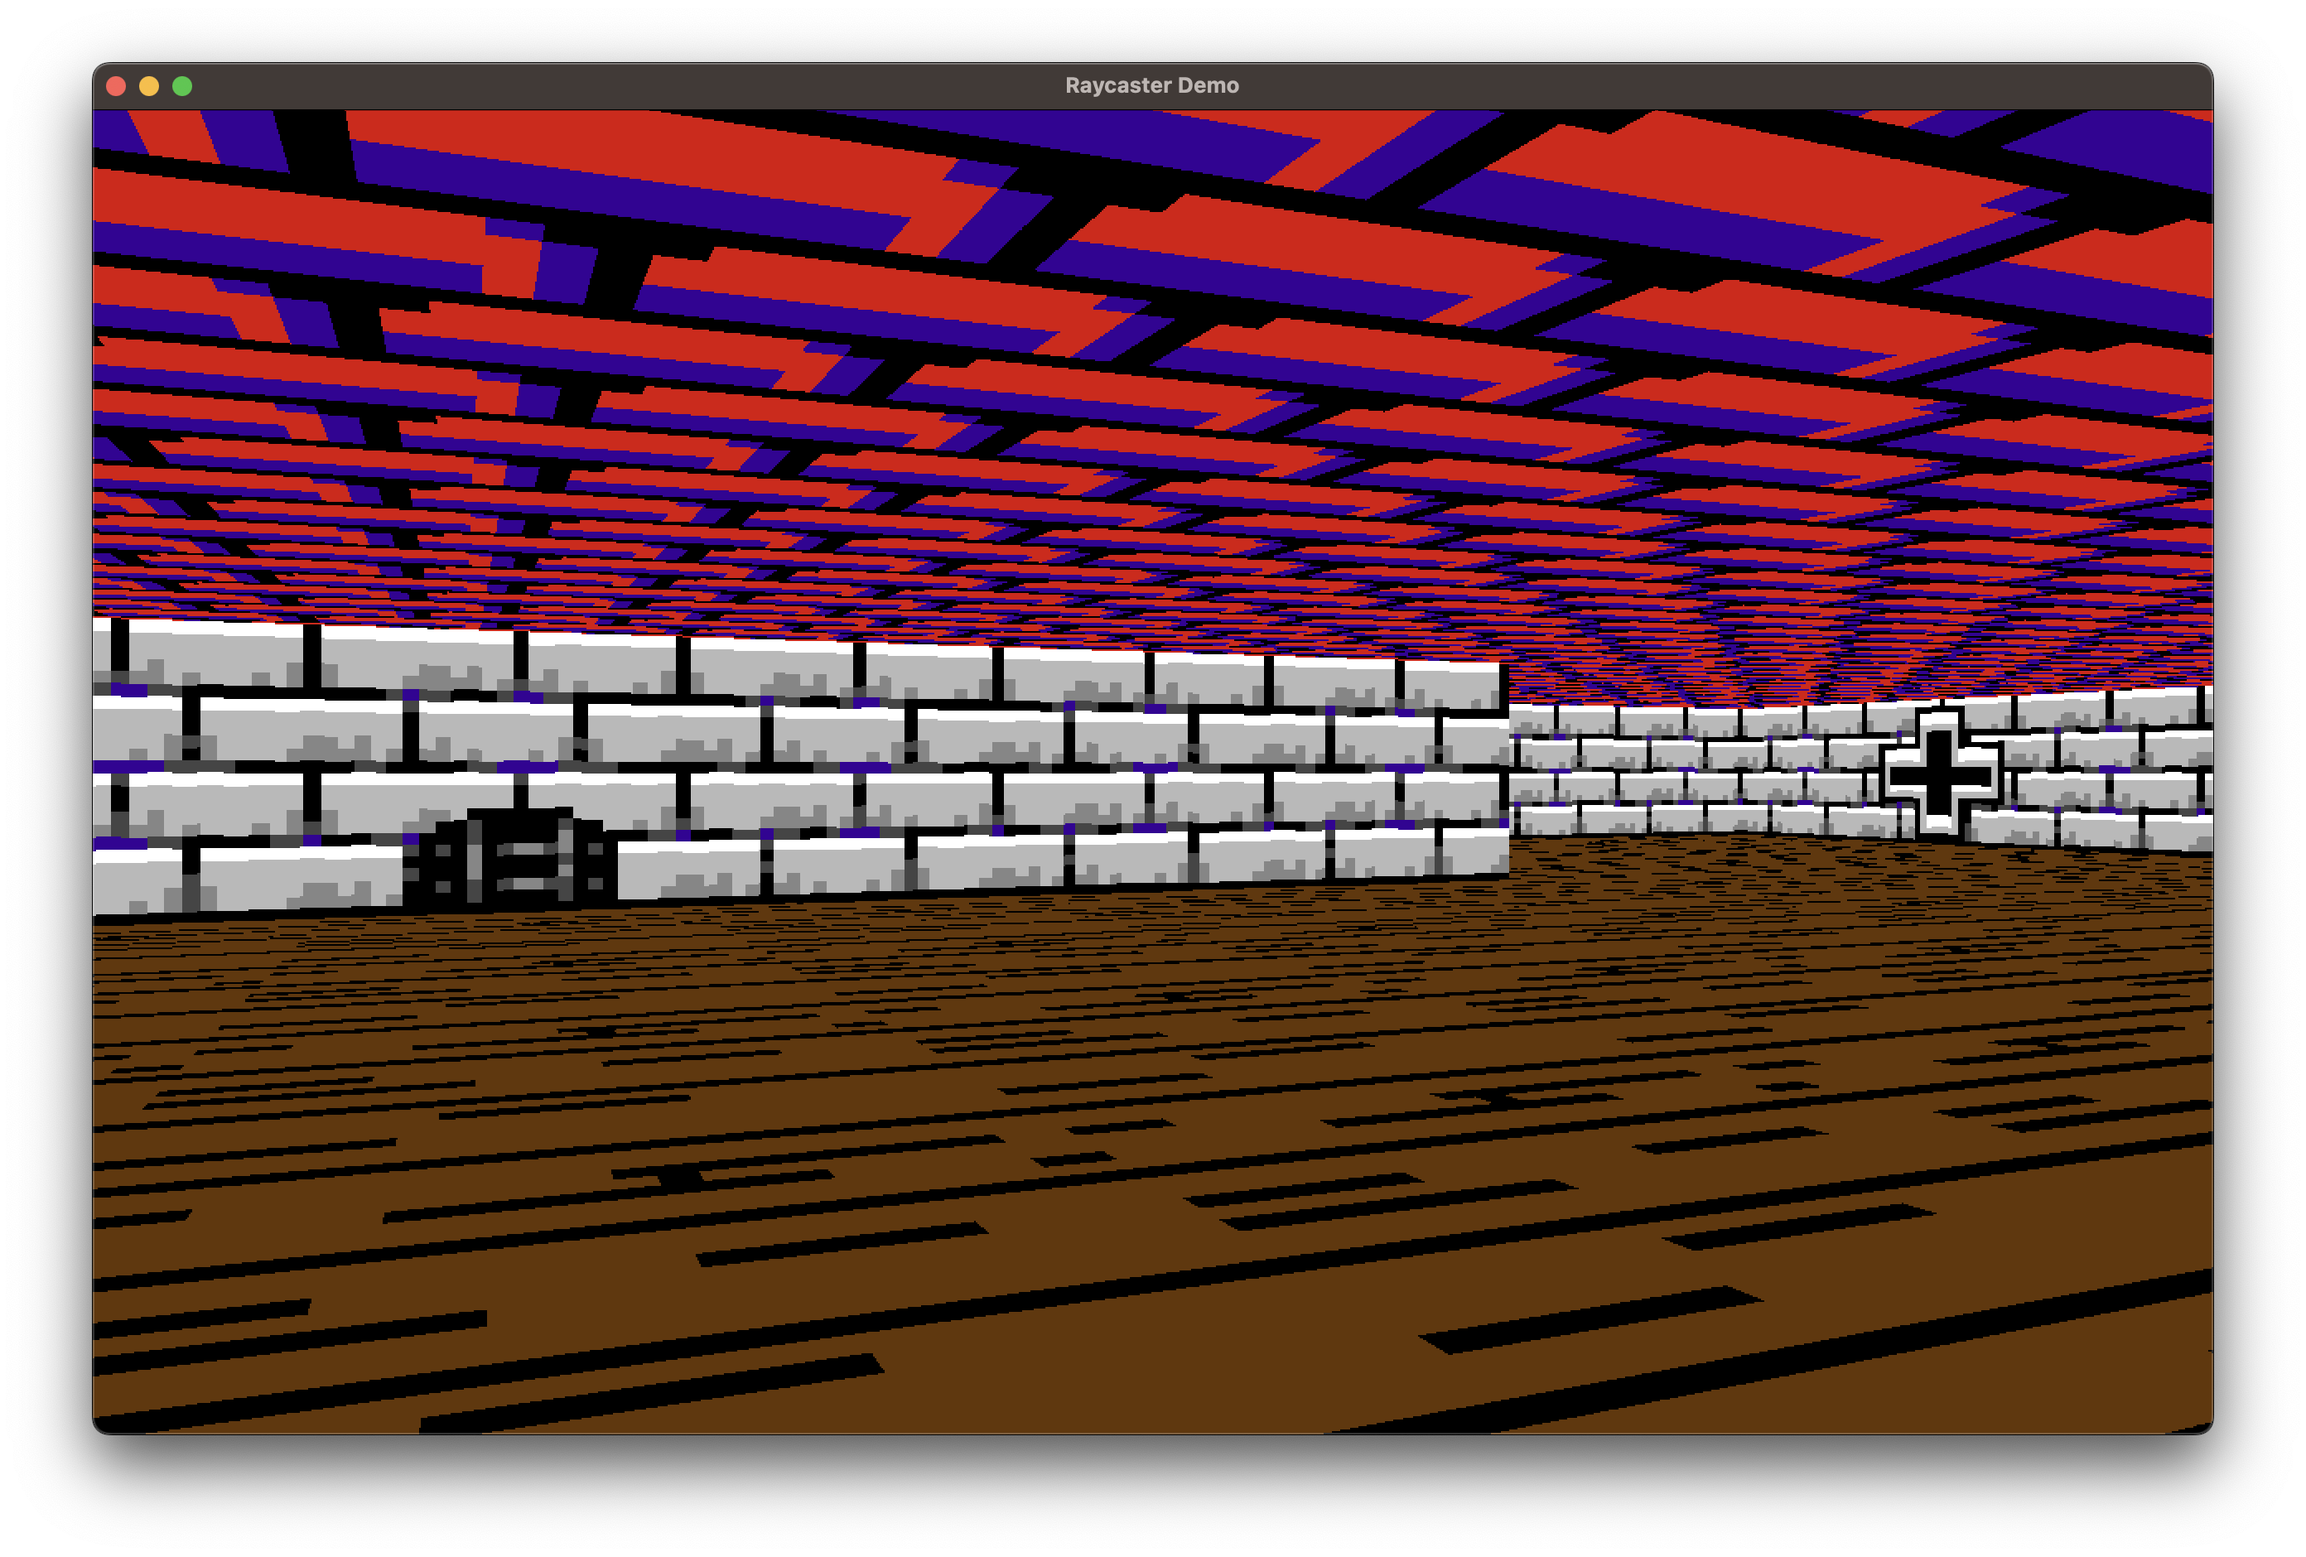
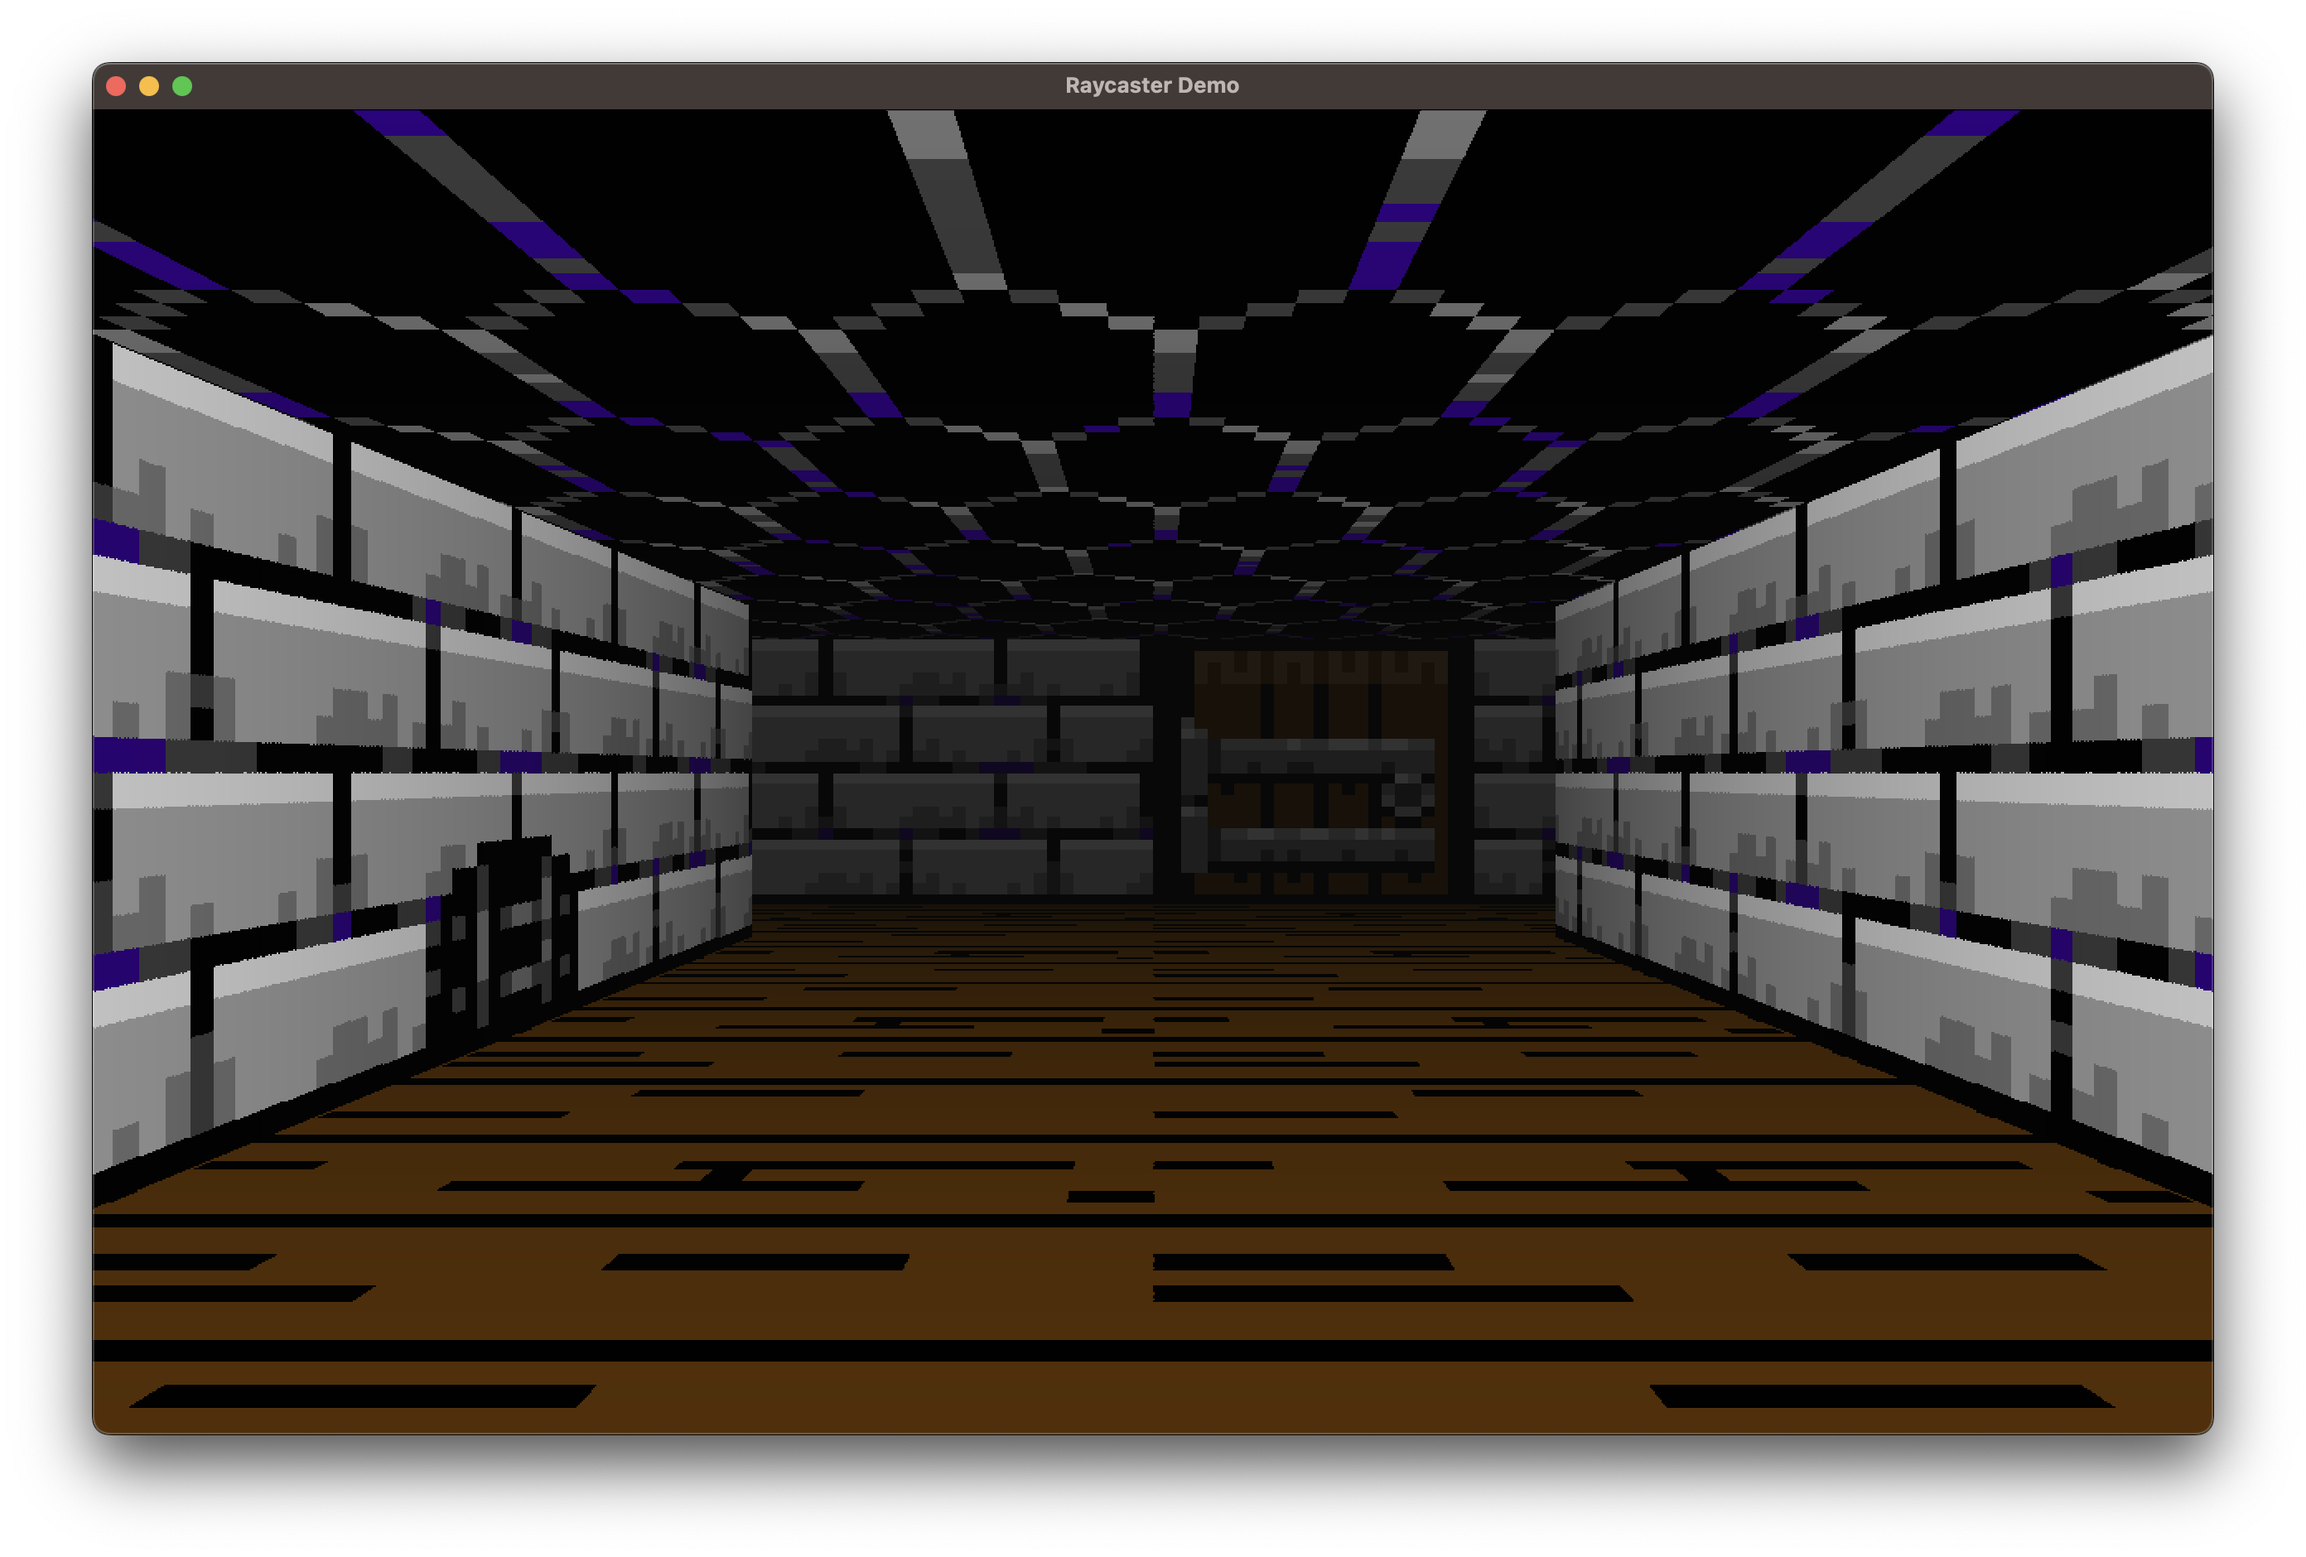
Adjustable fog color and distance

diff --git a/raycaster/src/raycaster.rs b/raycaster/src/raycaster.rs
@@ -5,6 +5,9 @@ pub struct Raycaster {
     time                    : u128,
     old_time                : u128,
 
+    fog_color               : [u8;4],
+    fog_distance            : f32,
+
     move_speed              : f32,
     rot_speed               : f32,
 
@@ -22,6 +25,9 @@ impl Raycaster {
             dir             : vec2::new(-1.0, 0.0),
             plane           : vec2::new(0.0, 0.66),
 
+            fog_color       : [0, 0, 0, 255],
+            fog_distance    : 6.0,
+
             time            : 0,
             old_time        : 0,
 
@@ -33,7 +39,7 @@ impl Raycaster {
     /// Renders the world map into the frame inside the given rectangle
     pub fn render(&mut self, frame: &mut [u8], rect: (usize, usize, usize, usize), stride: usize, world: &WorldMap) {
 
-        // let start = self.get_time();
+        let start = self.get_time();
 
         let width = rect.2 as i32;
         let height = rect.3 as i32;
@@ -119,6 +125,8 @@ impl Raycaster {
                 let mut floor_x = pos.x + row_distance * ray_dir_x0;
                 let mut floor_y = pos.y + row_distance * ray_dir_y0;
 
+                let mix_factor = row_distance / self.fog_distance;
+
                 for x in rect.0..rect.2 {
 
                     // the cell coord is simply got from the integer parts of floorX and floorY
@@ -133,7 +141,18 @@ impl Raycaster {
                             if let Some((tex_data, tex_width, _tex_height)) = world.get_image(image_id) {
                                 let tex_off = rect.0 + tex_x * 4 + rect.1 + ((tex_y as usize) * *tex_width as usize * 4);
                                 let off = x * 4 + y * 4 * stride;
-                                frame[off..off+4].copy_from_slice(&tex_data[tex_off..tex_off+4]);
+
+                                if mix_factor <= 0.0 {
+                                    frame[off..off+4].copy_from_slice(&tex_data[tex_off..tex_off+4]);
+                                } else
+                                if mix_factor >= 1.0 {
+                                    frame[off..off+4].copy_from_slice(&self.fog_color);
+                                } else {
+                                    let mut floor_color : [u8;4] = [0, 0, 0, 0];
+                                    floor_color.copy_from_slice(&tex_data[tex_off..tex_off+4]);
+                                    let color = self.mix_color(&floor_color, &self.fog_color, mix_factor);
+                                    frame[off..off+4].copy_from_slice(&color);
+                                }
                             }
                         }
                     }
@@ -146,7 +165,18 @@ impl Raycaster {
                             if let Some((tex_data, tex_width, _tex_height)) = world.get_image(image_id) {
                                 let tex_off = tex_rect.0 + tex_x * 4 + tex_rect.1 + ((tex_y as usize) * *tex_width as usize * 4);
                                 let off = x * 4 + (rect.3 - y - 1) * 4 * stride;
-                                frame[off..off+4].copy_from_slice(&tex_data[tex_off..tex_off+4]);
+
+                                if mix_factor <= 0.0 {
+                                    frame[off..off+4].copy_from_slice(&tex_data[tex_off..tex_off+4]);
+                                } else
+                                if mix_factor >= 1.0 {
+                                    frame[off..off+4].copy_from_slice(&self.fog_color);
+                                } else {
+                                    let mut ceiling_color : [u8;4] = [0, 0, 0, 0];
+                                    ceiling_color.copy_from_slice(&tex_data[tex_off..tex_off+4]);
+                                    let color = self.mix_color(&ceiling_color, &self.fog_color, mix_factor);
+                                    frame[off..off+4].copy_from_slice(&color);
+                                }
                             }
                         }
                     }
@@ -246,6 +276,8 @@ impl Raycaster {
                     draw_end = height - 1;
                 }
 
+                let mix_factor = perp_wall_dist / self.fog_distance;
+
                 if let Some(tile) = world.get_wall(map_x, map_y) {
 
                     if let Some((image_id, rect)) = tile.texture {
@@ -280,7 +312,18 @@ impl Raycaster {
                             for y in draw_start..draw_end {
                                 let tex_off = rect.0 + tex_x * 4 + rect.1 + ((tex_pos as usize) * *tex_width as usize * 4);
                                 let off = off_x + y as usize * 4 * stride;
-                                frame[off..off+4].copy_from_slice(&tex_data[tex_off..tex_off+4]);
+
+                                if mix_factor <= 0.0 {
+                                    frame[off..off+4].copy_from_slice(&tex_data[tex_off..tex_off+4]);
+                                } else
+                                if mix_factor >= 1.0 {
+                                    frame[off..off+4].copy_from_slice(&self.fog_color);
+                                } else {
+                                    let mut wall_color : [u8;4] = [0, 0, 0, 0];
+                                    wall_color.copy_from_slice(&tex_data[tex_off..tex_off+4]);
+                                    let color = self.mix_color(&wall_color, &self.fog_color, mix_factor);
+                                    frame[off..off+4].copy_from_slice(&color);
+                                }
 
                                 tex_pos += step;
                             }
@@ -315,8 +358,8 @@ impl Raycaster {
             }
         }
 
-        // let stop = self.get_time();
-        // println!("tick time {:?}", stop - start);
+        let stop = self.get_time();
+        println!("tick time {:?}", stop - start);
 
         self.old_time = self.time;
         self.time = self.get_time();
@@ -378,12 +421,27 @@ impl Raycaster {
         self.pos.y = y as f32;
     }
 
+    /// Set the fog color and distance
+    pub fn set_fog(&mut self, color: [u8; 4], distance: f32) {
+        self.fog_color = color;
+        self.fog_distance = distance;
+    }
+
     /// Gets the current time in milliseconds
     fn get_time(&self) -> u128 {
         let stop = SystemTime::now()
             .duration_since(UNIX_EPOCH)
             .expect("Time went backwards");
             stop.as_millis()
+    }
+
+    #[inline(always)]
+    /// Mix two colors
+    fn mix_color(&self, a: &[u8;4], b: &[u8;4], v: f32) -> [u8; 4] {
+        [   (((1.0 - v) * (a[0] as f32 / 255.0) + b[0] as f32 / 255.0 * v) * 255.0) as u8,
+            (((1.0 - v) * (a[1] as f32 / 255.0) + b[1] as f32 / 255.0 * v) * 255.0) as u8,
+            (((1.0 - v) * (a[2] as f32 / 255.0) + b[2] as f32 / 255.0 * v) * 255.0) as u8,
+        255]
     }
 
 }

diff --git a/demo/src/main.rs b/demo/src/main.rs
@@ -110,7 +110,7 @@ fn main() -> Result<(), Error> {
     let tiles = vec![
         Tile::textured(image_id, calc_tile_rect(20, 4, 24)), // Wall
         Tile::textured(image_id, calc_tile_rect(23, 4, 24)), // Wall Gitter
-        Tile::textured(image_id, calc_tile_rect(43, 1, 24)), // Door
+        Tile::textured(image_id, calc_tile_rect(25, 14, 24)),// Door
         Tile::textured(image_id, calc_tile_rect(22, 4, 24)), // Wall Cross
     ];
 
@@ -120,10 +120,10 @@ fn main() -> Result<(), Error> {
         1, 0, 0, 0, 0, 0, 0, 0, 0, 0, 0, 0, 0, 0, 0, 0, 0, 0, 0, 1,
         1, 0, 0, 0, 0, 0, 0, 0, 0, 0, 0, 0, 0, 0, 0, 0, 0, 0, 0, 1,
         1, 0, 0, 1, 0, 0, 0, 0, 0, 0, 0, 0, 0, 0, 0, 0, 0, 0, 0, 1,
+        1, 0, 0, 1, 0, 1, 2, 1, 1, 0, 0, 0, 0, 0, 0, 0, 0, 0, 0, 1,
         1, 0, 0, 1, 0, 0, 0, 0, 0, 0, 0, 0, 0, 0, 0, 0, 0, 0, 0, 1,
-        1, 0, 0, 1, 0, 0, 0, 0, 0, 0, 0, 0, 0, 0, 0, 0, 0, 0, 0, 1,
-        1, 0, 0, 2, 0, 0, 0, 0, 0, 0, 0, 0, 0, 0, 0, 0, 0, 0, 0, 1,
-        1, 0, 0, 1, 0, 0, 0, 0, 0, 0, 0, 0, 0, 0, 0, 0, 0, 0, 0, 1,
+        1, 0, 0, 3, 0, 0, 0, 0, 0, 0, 0, 0, 0, 0, 0, 0, 0, 0, 0, 1,
+        1, 0, 0, 1, 0, 1, 1, 1, 1, 0, 0, 0, 0, 0, 0, 0, 0, 0, 0, 1,
         1, 0, 0, 1, 0, 0, 0, 0, 0, 0, 0, 0, 0, 0, 0, 0, 0, 0, 0, 1,
         1, 0, 0, 1, 0, 0, 0, 0, 0, 0, 0, 0, 0, 0, 0, 0, 0, 0, 0, 1,
         1, 0, 0, 0, 0, 0, 0, 0, 0, 0, 0, 0, 0, 0, 0, 0, 0, 0, 0, 1,
@@ -142,13 +142,14 @@ fn main() -> Result<(), Error> {
         }
     }
 
-    world.set_ceiling_tile(Tile::textured(image_id, calc_tile_rect(23, 14, 24)));
+    world.set_ceiling_tile(Tile::textured(image_id, calc_tile_rect(9, 4, 24)));
     //world.set_ceiling_tile(Tile::colored([100, 100, 100, 255]));
     world.set_floor_tile(Tile::textured(image_id, calc_tile_rect(21, 14, 24)));
     // world.set_floor_tile(Tile::colored([50, 50, 50, 255]));
 
     let mut caster = Raycaster::new();
-    caster.set_pos(10, 7);
+    caster.set_pos(9, 7);
+    caster.set_fog([10, 10, 10, 255], 6.0);
 
     // Set up the game loop
 

diff --git a/Readme.md b/Readme.md
@@ -9,6 +9,7 @@ This crate is work in progress.
 ## Features
 
 * Textured walls, ceiling and floor
+* Adjustable fog color and distance
 
 ## Todo
 
